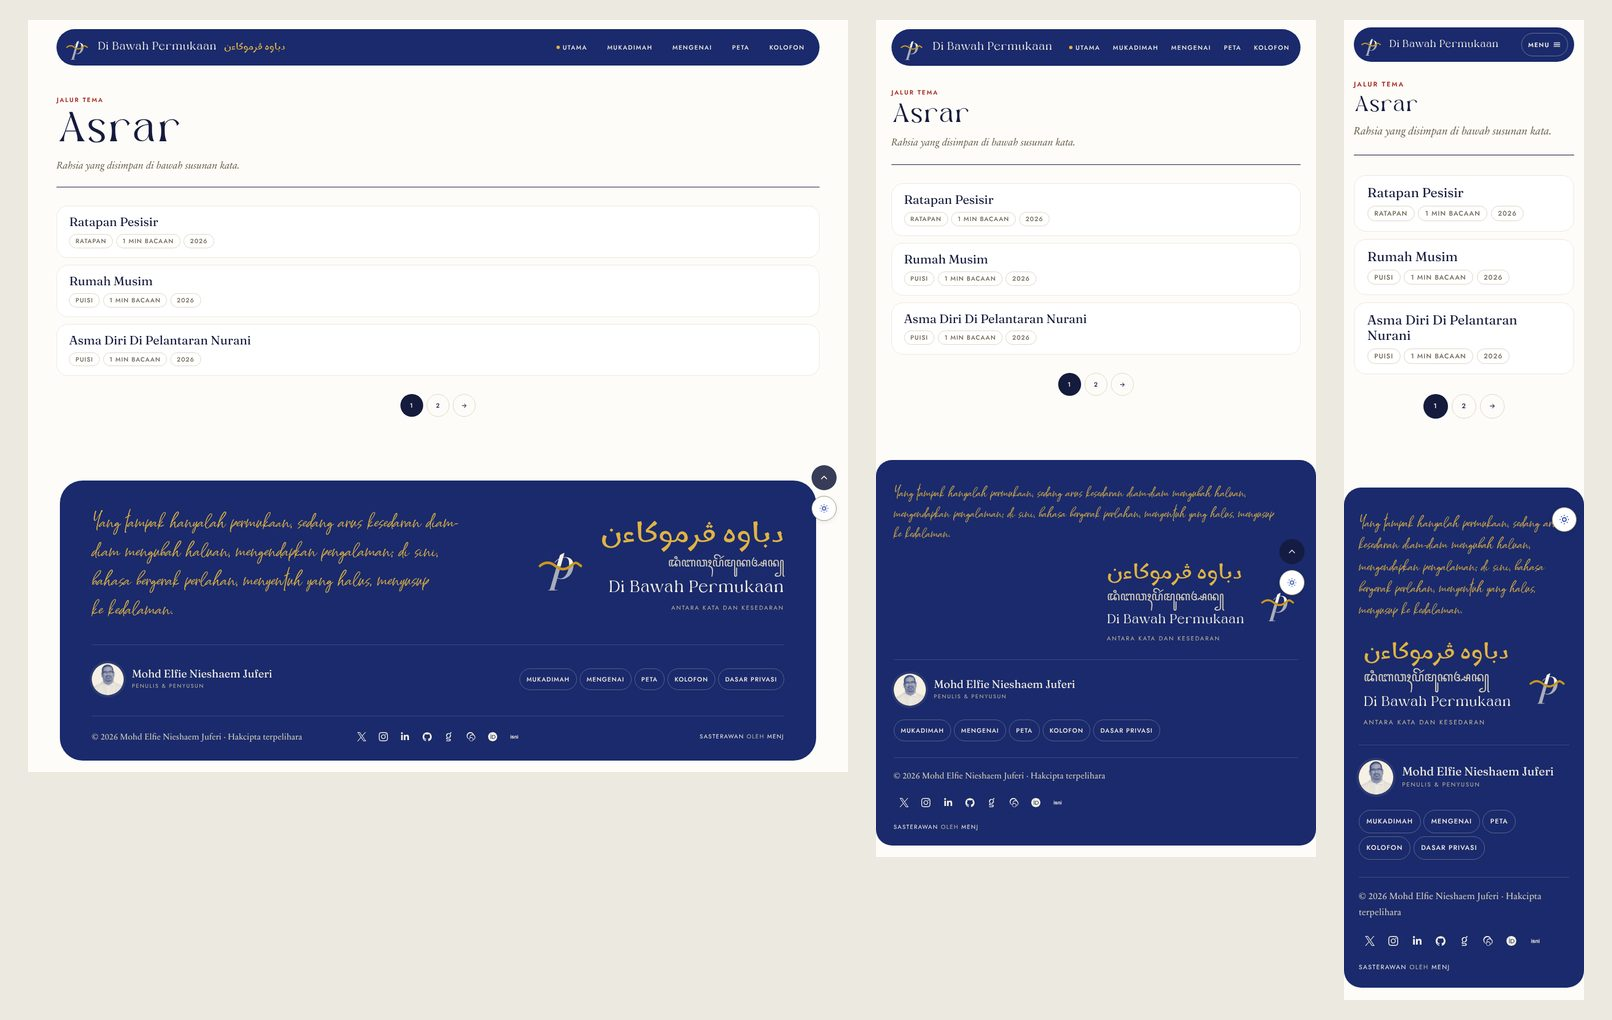
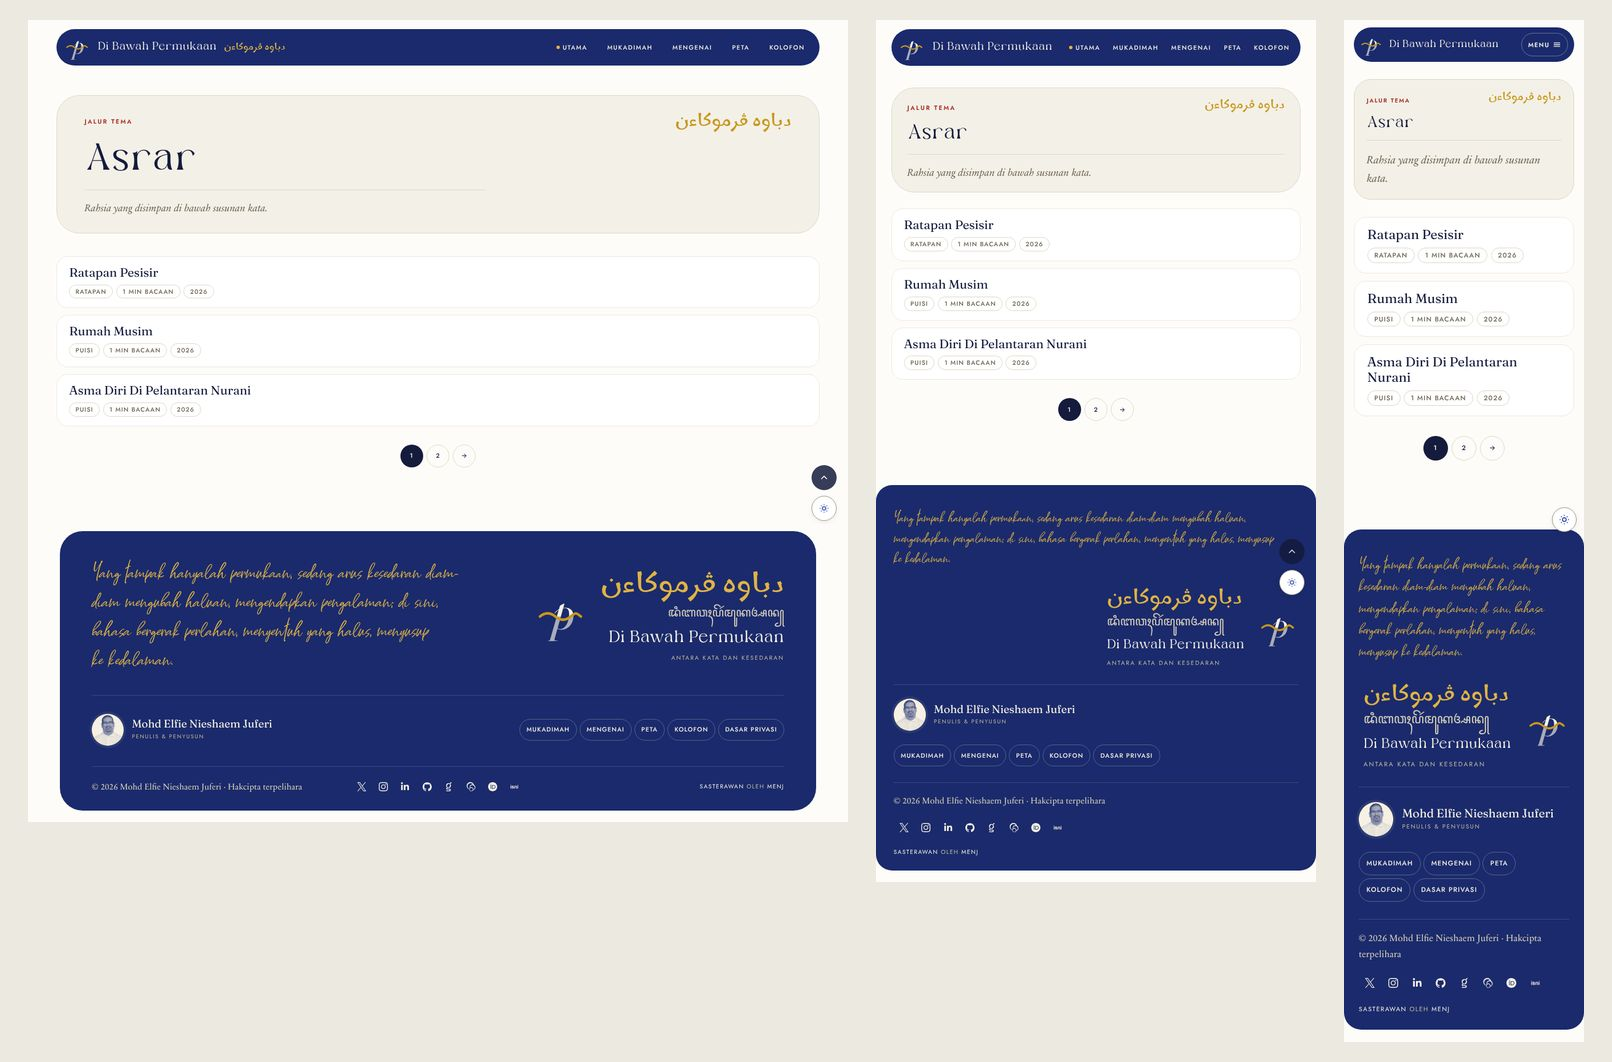
Consistency pass: one title-page language across the theme
- Kagnue for every h1/h2; featured work title, 404 and search titles follow
- 404, search and tag archives use the same title-page panel with kicker and Jawi seal
- Search query set as the title in quotes instead of a small pill
- Retire the floating strand blurb under the header; the opening kicker and archive description carry it
- Review sheets for 404, search, night, cream and dusk schemes at 1440/768/390

Claude-Session: https://claude.ai/code/session_01Er8Hpy67qX5wHknT6MnoT1

diff --git a/assets/css/frontend.css b/assets/css/frontend.css
@@ -111,6 +111,9 @@ img { max-width: 100%; height: auto; display: block; }
 iframe, video, embed, object, svg { max-width: 100%; }
 .bwp-work__content table { display: block; max-width: 100%; overflow-x: auto; }
 
+/* type roles: Kagnue carries h1/h2 (section and title-page level), Fraunces the rest */
+h1, h2 { font-family: var(--bwp-font-brand); letter-spacing: 0; line-height: 1.05; }
+
 h1, h2, h3, h4 {
     font-family: var(--bwp-font-display);
     font-weight: 400;
@@ -352,13 +355,6 @@ a:focus-visible, button:focus-visible { border-radius: var(--bwp-pill); }
 .bwp-nav__list .sub-menu a:hover { background: var(--bwp-bg-subtle); color: var(--bwp-link); }
 
 /* category blurb under the header on single works */
-.bwp-chapter-blurb {
-    max-width: var(--bwp-measure);
-    margin: -1rem auto clamp(1.5rem, 4vw, 2.5rem); color: var(--bwp-muted);
-    font-style: italic; font-size: 1rem; text-align: center;
-    color: var(--bwp-muted);
-}
-.bwp-chapter-blurb p { margin: 0; }
 
 /* ═══════════════════════════════════════════════════════════
    FRONT PAGE — hero + jalur pills + table of contents
@@ -530,7 +526,7 @@ html.bwp-night .bwp-book-title--cover { background: #0e1636; }
 .bwp-featured__kicker { margin: 0 0 1.25rem; font-family: var(--bwp-font-ui); font-size: .64rem; font-weight: 600; letter-spacing: .2em; text-transform: uppercase; color: var(--bwp-rubric); }
 .bwp-featured__grid { display: grid; grid-template-columns: repeat(12, minmax(0, 1fr)); gap: 1.5rem 2rem; align-items: start; }
 .bwp-featured__head { grid-column: 1 / span 12; display: flex; flex-direction: column; gap: .9rem; }
-.bwp-featured__title { margin: 0; font-size: clamp(1.9rem, 3.6vw, 3.2rem); line-height: 1; letter-spacing: -.015em; font-variation-settings: 'opsz' 144, 'SOFT' 50; text-wrap: balance; }
+.bwp-featured__title { margin: 0; font-family: var(--bwp-font-brand); font-size: clamp(1.9rem, 3.4vw, 3rem); line-height: 1.02; letter-spacing: 0; text-wrap: pretty; }
 .bwp-featured__title a { color: var(--bwp-text); }
 .bwp-featured__title a:hover { color: var(--bwp-link); }
 .bwp-featured__dateline { margin: 0; font-family: var(--bwp-font-display); font-style: italic; font-size: 1rem; color: var(--bwp-muted); }
@@ -941,6 +937,10 @@ body.bwp-toc-masonry .bwp-toc__item { width: 49%; margin-bottom: .75rem; }
 
 .bwp-archive-header .bwp-ornament { display: none; }
 .bwp-archive-header__taxlabel { margin: 0; }
+.bwp-archive-header--search .bwp-tag--lg,
+.bwp-archive-header--tag .bwp-tag--lg { all: unset; font: inherit; color: inherit; }
+.bwp-archive-header--search .bwp-tag--lg::before { content: '\201C'; color: var(--bwp-accent); }
+.bwp-archive-header--search .bwp-tag--lg::after  { content: '\201D'; color: var(--bwp-accent); }
 .bwp-archive-header__desc { max-width: 40em; font-size: 1.1rem; font-style: italic; color: var(--bwp-muted); margin: 0; padding-top: 1rem; border-top: 1px solid var(--bwp-border); }
 
 .bwp-archive-list { list-style: none; margin: 0; padding: 0; display: grid; gap: .75rem; }
@@ -959,9 +959,11 @@ body.bwp-archive-masonry .bwp-archive-list__item { width: 49%; margin-bottom: .7
     body.bwp-archive-masonry .bwp-archive-list__item { width: 100%; }
 }
 
-.bwp-empty-state, .bwp-404 { text-align: center; padding: 3rem 0; }
-.bwp-404__title { font-size: clamp(3rem, 10vw, 7rem); line-height: 1; }
-.bwp-404__desc { font-style: italic; color: var(--bwp-muted); }
+.bwp-empty-state { text-align: center; padding: 3rem 0; }
+.bwp-404 .bwp-ornament { display: none; }
+.bwp-404__title { font-family: var(--bwp-font-brand); font-size: clamp(2rem, 4.6vw, 4.4rem); line-height: 1.02; margin: 0; }
+.bwp-404__desc { margin: 0; padding-top: 1rem; border-top: 1px solid var(--bwp-border); font-style: italic; color: var(--bwp-muted); max-width: 40em; }
+.bwp-404 .bwp-search-form { max-width: 28rem; margin: .25rem 0 0; }
 
 /* search form */
 .bwp-search-form { display: flex; gap: .5rem; align-items: center; max-width: 32em; margin: 0 auto; }

diff --git a/404.php b/404.php
@@ -3,12 +3,16 @@
 
 <main id="bwp-main" class="bwp-main">
 
-<div class="bwp-404">
-    <?php echo book_wp_ornament( 'asterism' ); // phpcs:ignore ?>
-    <!-- h1 — this is the sole heading on the 404 page; heading hierarchy must start at 1. (W-06 / SC 2.4.2, SC 1.3.1) -->
+<div class="bwp-404 bwp-opening">
+    <div class="bwp-opening__top">
+        <p class="bwp-opening__kicker"><?php esc_html_e( 'Ralat 404', 'book-wp' ); ?></p>
+        <?php $bwp_jawi_404 = get_option( 'book_wp_jawi_name', '' ); if ( $bwp_jawi_404 ) : ?>
+            <span class="bwp-opening__seal" aria-hidden="true" dir="rtl" lang="ms-Arab"><?php echo esc_html( $bwp_jawi_404 ); ?></span>
+        <?php endif; ?>
+    </div>
+    <!-- h1 — the sole heading on the 404 page; hierarchy starts at 1 (SC 2.4.2, SC 1.3.1) -->
     <h1 class="bwp-404__title"><?php echo esc_html( __( 'Page Not Found', 'book-wp' ) ); ?></h1>
     <p class="bwp-404__desc"><?php echo esc_html( __( 'Sorry, the page you are looking for does not exist.', 'book-wp' ) ); ?></p>
-    <?php echo book_wp_ornament( 'dash' ); // phpcs:ignore ?>
     <?php get_search_form(); ?>
 </div>
 

diff --git a/tag.php b/tag.php
@@ -4,9 +4,10 @@
 <main id="bwp-main" class="bwp-main">
 
 <div class="bwp-archive-header bwp-opening bwp-archive-header--tag">
-    <?php echo book_wp_ornament( 'leaf' ); // phpcs:ignore ?>
-
-    <p class="bwp-archive-header__taxlabel bwp-opening__kicker"><?php esc_html_e( 'Tagged with', 'book-wp' ); ?></p>
+    <div class="bwp-opening__top">
+        <p class="bwp-archive-header__taxlabel bwp-opening__kicker"><?php esc_html_e( 'Tagged with', 'book-wp' ); ?></p>
+        <?php $bwp_seal = get_option( 'book_wp_jawi_name', '' ); if ( $bwp_seal ) : ?><span class="bwp-opening__seal" aria-hidden="true" dir="rtl" lang="ms-Arab"><?php echo esc_html( $bwp_seal ); ?></span><?php endif; ?>
+    </div>
 
     <h1 class="bwp-archive-header__title">
         <span class="bwp-tag bwp-tag--lg"><?php single_tag_title(); ?></span>
@@ -19,7 +20,6 @@
         <p class="bwp-archive-header__desc"><?php echo esc_html( $tag->description ); ?></p>
     <?php endif; ?>
 
-    <?php echo book_wp_ornament( 'dash' ); // phpcs:ignore ?>
 </div>
 
 <?php if ( have_posts() ) : ?>

diff --git a/search.php b/search.php
@@ -4,15 +4,15 @@
 <main id="bwp-main" class="bwp-main">
 
 <div class="bwp-archive-header bwp-opening bwp-archive-header--search">
-    <?php echo book_wp_ornament( 'leaf' ); // phpcs:ignore ?>
-
-    <p class="bwp-archive-header__taxlabel bwp-opening__kicker"><?php esc_html_e( 'Search Results', 'book-wp' ); ?></p>
+    <div class="bwp-opening__top">
+        <p class="bwp-archive-header__taxlabel bwp-opening__kicker"><?php esc_html_e( 'Search Results', 'book-wp' ); ?></p>
+        <?php $bwp_seal = get_option( 'book_wp_jawi_name', '' ); if ( $bwp_seal ) : ?><span class="bwp-opening__seal" aria-hidden="true" dir="rtl" lang="ms-Arab"><?php echo esc_html( $bwp_seal ); ?></span><?php endif; ?>
+    </div>
 
     <h1 class="bwp-archive-header__title">
         <span class="bwp-tag bwp-tag--lg"><?php echo esc_html( get_search_query() ); ?></span>
     </h1>
 
-    <?php echo book_wp_ornament( 'dash' ); // phpcs:ignore ?>
 </div>
 
 <?php if ( have_posts() ) : ?>

diff --git a/header.php b/header.php
@@ -98,10 +98,6 @@
             }
         }
         ?>
-        <?php if ( ! empty( $chapter_blurb ) ) : ?>
-            <div class="bwp-chapter-blurb">
-                <?php echo wp_kses_post( $chapter_blurb ); ?>
-            </div>
-    <?php endif; ?>
+        <?php /* The strand blurb now lives in the title-page kicker (works) and the archive description; nothing is printed here. */ ?>
     <?php endif; ?>
 

diff --git a/docs/changelog.md b/docs/changelog.md
@@ -14,8 +14,11 @@
   seal at the head and the author's name and edition line at the foot.
   Switchable and replaceable under Settings → General. **Jalur tema** pills
   generated from categories, table of contents as two-column cards.
-- Single works: opening grid (form badge + chips left, title right), rounded
-  ink-tile drop cap, colophon as a pill card, previous/next as pill cards.
+- One title-page panel opens every work, page, archive, tag, search and the
+  404: kicker and Jawi seal at the head, Kagnue title, chips or description
+  beneath a hairline. Kagnue carries all h1/h2; Fraunces keeps italics,
+  datelines and list titles. The floating strand blurb under the header is
+  retired. Rounded ink-tile drop cap, colophon and previous/next pill cards.
 - Night mode and the Night scheme now share one Malam palette; Cream and Dusk
   re-ink correctly at clock-night and under the reader toggle.
 - Per-form stylesheets no longer set page width or title treatment; they
